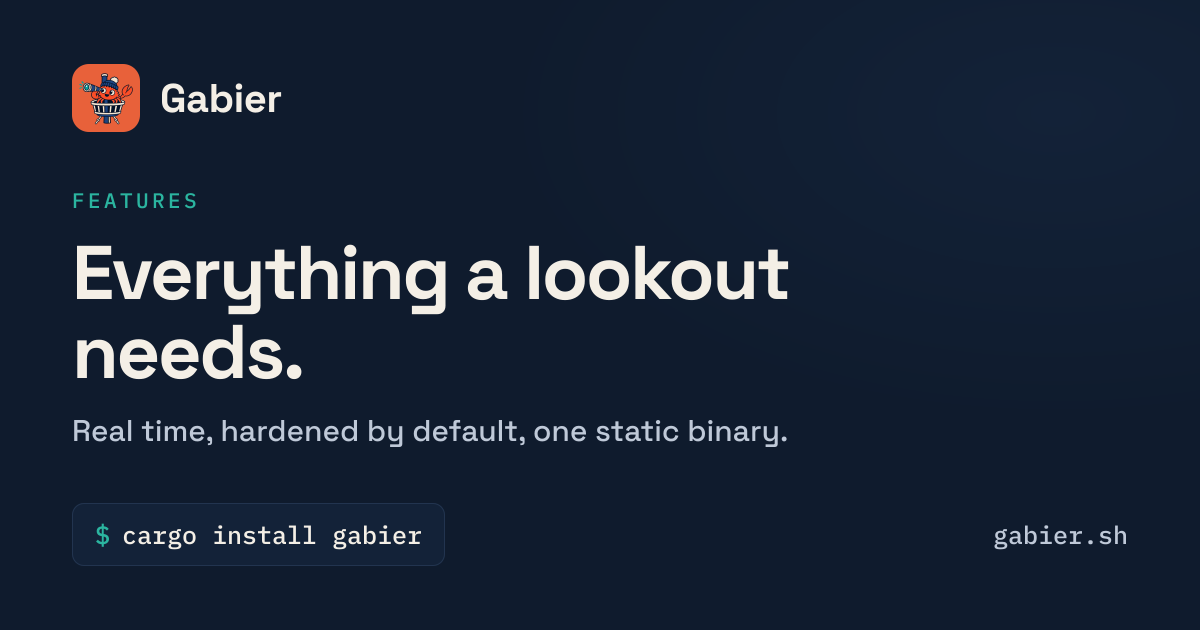
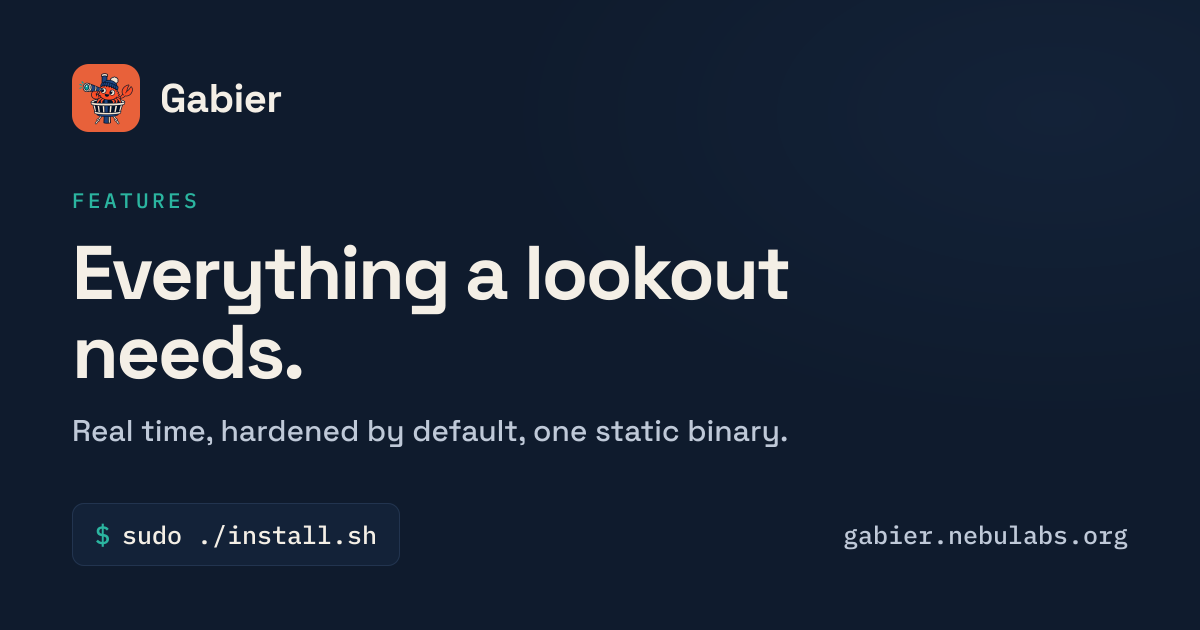
Move the site to gabier.nebulabs.org
A subdomain of a zone that already exists, rather than an unregistered apex:
one CNAME record instead of four A records, and no domain to buy.

Also corrects the Open Graph cards, which still advertised
`cargo install gabier` — the crate is not published, and install.sh is the
real entry point.

Changed region(s): [[0.6783, 0.8143, 0.9558, 0.8746], [0.0925, 0.8143, 0.37, 0.8746]]

diff --git a/src/config/site.ts b/src/config/site.ts
@@ -15,7 +15,7 @@ export const SITE = {
   description:
     'Gabier watches SSH logins on your VPS and pings you on Discord or Slack within a second. One Rust binary, zero dependencies, with burst throttling so a port-22 scan never drowns the real login.',
   /** Canonical origin, no trailing slash. Drives canonical URLs, the sitemap and OG tags. */
-  url: 'https://gabier.sh',
+  url: 'https://gabier.nebulabs.org',
   lang: 'en',
   locale: 'en_US',
   version: '0.1.0',

diff --git a/README.md b/README.md
@@ -1,4 +1,4 @@
-# gabier.sh
+# gabier.nebulabs.org
 
 The website and documentation for [Gabier](https://github.com/Flottille/gabier), a small Rust daemon that
 notifies Discord or Slack on SSH logins.
@@ -101,16 +101,25 @@ npm run build && npm run preview
 ## Deployment
 
 GitHub Pages via `.github/workflows/deploy.yml`, on every push to `main`. The custom domain comes from
-`public/CNAME`; point `gabier.sh` at GitHub Pages with:
+`public/CNAME`.
 
-| Record | Name | Value |
-| --- | --- | --- |
-| `A` | `@` | `185.199.108.153`, `.109.153`, `.110.153`, `.111.153` |
-| `AAAA` | `@` | `2606:50c0:8000::153`, `8001::153`, `8002::153`, `8003::153` |
-| `CNAME` | `www` | `Flottille.github.io` |
+`gabier.nebulabs.org` is a subdomain, so it takes exactly one DNS record — not the four A records an apex
+domain would need. In the Cloudflare zone for `nebulabs.org`:
 
-Then in the repository: **Settings → Pages → Custom domain → gabier.sh**, and tick **Enforce HTTPS** once
-the certificate is issued.
+| Type | Name | Target | Proxy |
+| --- | --- | --- | --- |
+| `CNAME` | `gabier` | `Flottille.github.io` | **DNS only** |
+
+The proxy status matters: with Cloudflare's orange cloud on, GitHub cannot validate the domain and will
+never issue the certificate. Leave it grey until **Settings → Pages** reports the certificate as issued and
+**Enforce HTTPS** can be ticked.
+
+Propagation usually takes a couple of minutes:
+
+```sh
+dig +short gabier.nebulabs.org
+curl -sI https://gabier.nebulabs.org | head -1
+```
 
 `netlify.toml` and `public/_headers` are there if the site ever moves to Netlify or Cloudflare Pages; they
 carry the security headers and the cache policy, which GitHub Pages ignores.
@@ -119,4 +128,4 @@ carry the security headers and the cache policy, which GitHub Pages ignores.
 
 - [ ] Measure the binary and fill in `STATS` in `src/config/site.ts` — the build warns while `[X]` is still
       there.
-- [ ] Point the DNS at GitHub Pages and set the custom domain.
+- [ ] Add the CNAME record in the nebulabs.org zone and confirm the certificate is issued.
